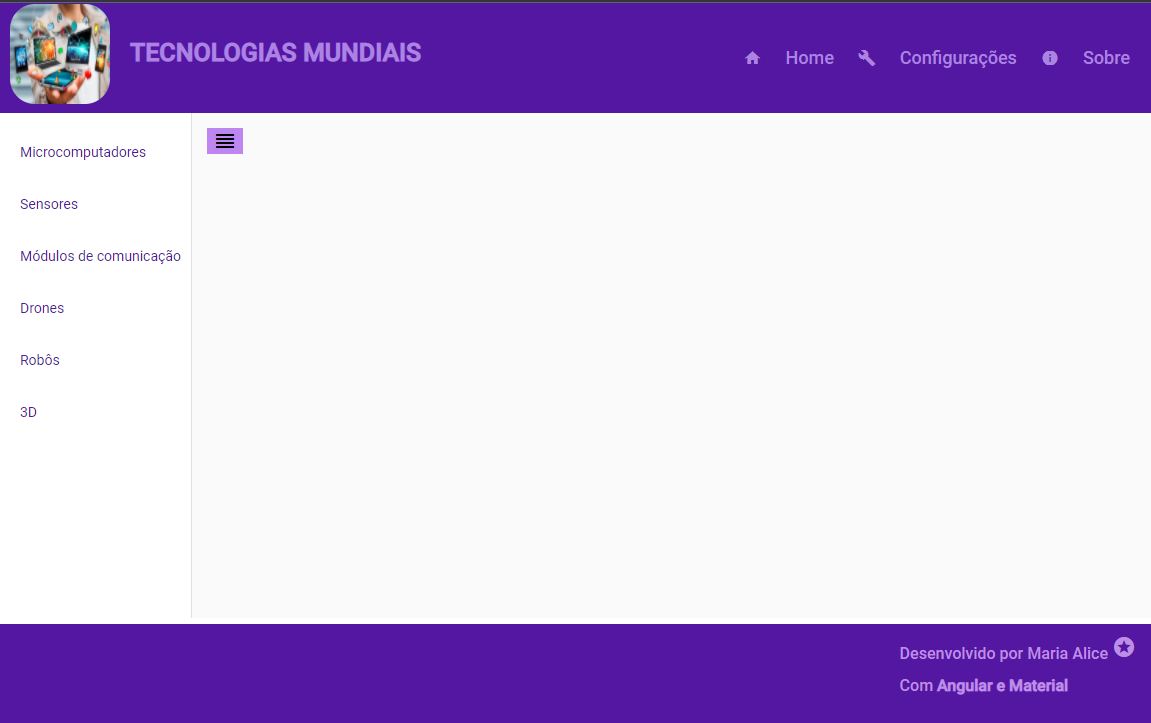
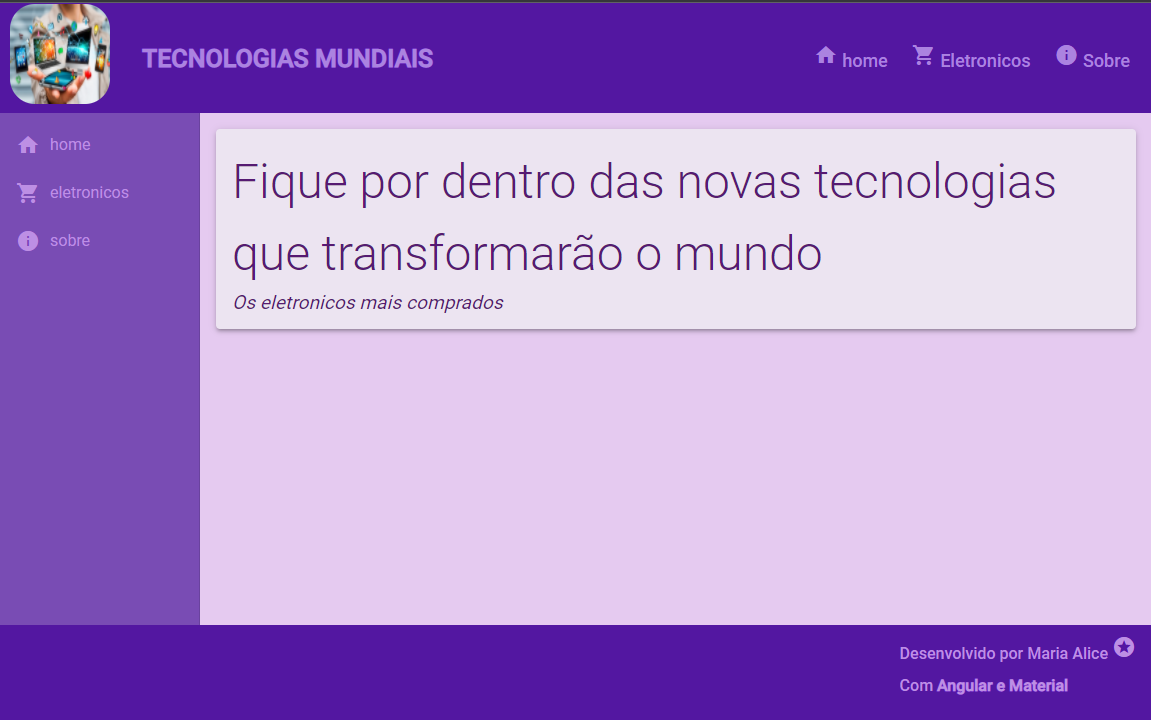
Add files via upload

diff --git a/frontend/src/app/components/template/nav/nav.component.html b/frontend/src/app/components/template/nav/nav.component.html
@@ -1,22 +1,28 @@
-<mat-sidenav-container class="sidenav">
+<mat-sidenav-container class="container">
 
-    <mat-sidenav #variavelLocalSidenav mode="side">
+    <mat-sidenav 
+    class="sidenav"
+    opened
+    fixedOnViewport="true"
+    fixedTopGap="64"
+    mode="side">
     
-      <span>
-          <p>Microcomputadores</p>
-          <p>Sensores</p>
-          <p>Módulos de comunicação</p>
-          <p>Drones</p>
-          <p>Robôs</p>
-          <p>3D</p>
-      </span>
-    
+    <mat-nav-list class="nav-list">
+        <a mat-list-item routerLink="/">
+          <i class="material-icons"> home </i>
+          home
+        </a>
+        <a mat-list-item routerLink="/eletronics">
+          <i class="material-icons"> shopping_cart </i>
+          eletronicos
+        </a>
+        <a mat-list-item routerLink="/about">
+          <i class="material-icons"> info </i>
+          sobre
+        </a>
+    </mat-nav-list>
     </mat-sidenav>
-    
-    <mat-sidenav-content>
-    
-      <button class="material-icons" (click)="variavelLocalSidenav.toggle()"> reorder </button>
-    
+    <mat-sidenav-content class="content">
+      <router-outlet></router-outlet>
     </mat-sidenav-content>
-    
     </mat-sidenav-container>

diff --git a/frontend/src/app/app.module.ts b/frontend/src/app/app.module.ts
@@ -10,13 +10,20 @@ import { FooterComponent } from './components/template/footer/footer.component';
 import { NavComponent } from './components/template/nav/nav.component';
 import {MatSidenavModule} from '@angular/material/sidenav';
 import {MatListModule} from '@angular/material/list';
+import { HomeComponent } from './views/home/home.component';
+import { MatCardModule } from '@angular/material/card';
+import { AboutComponent } from './views/about/about.component';
+import { EletronicsComponent } from './views/eletronics/eletronics.component';
 
 @NgModule({
   declarations: [
     AppComponent,
     HeaderComponent,
     FooterComponent,
-    NavComponent
+    NavComponent,
+    HomeComponent,
+    AboutComponent,
+    EletronicsComponent
   ],
   imports: [
     BrowserModule,
@@ -24,7 +31,8 @@ import {MatListModule} from '@angular/material/list';
     BrowserAnimationsModule,
     MatToolbarModule,
     MatSidenavModule,
-    MatListModule
+    MatListModule,
+    MatCardModule
   ],
   providers: [],
   bootstrap: [AppComponent]

diff --git a/frontend/src/app/components/template/header/header.component.html b/frontend/src/app/components/template/header/header.component.html
@@ -2,15 +2,21 @@
     <span>
             <img class="img" src="assets/img/tec.jpg" alt="tecnologia">
     </span>
-        <p class="logo">TECNOLOGIAS MUNDIAIS</p>
+        <a class="logo" routerLink="/">TECNOLOGIAS MUNDIAIS</a>
         <div class="header-right">
-        <a class="material-icons"> home </a>
-        <a>Home</a> 
+        <a>
+            <i class="material-icons"> home </i>
+            home
+        </a>
 
-        <a class="material-icons"> build </a>
-        <a>Configurações</a> 
+        <a>
+            <i class="material-icons"> shopping_cart </i>
+            Eletronicos
+        </a>
 
-        <a class="material-icons"> info </a>
-        <a>Sobre</a> 
+        <a>
+            <i class="material-icons"> info </i>
+            Sobre
+        </a>
     </div>
 </mat-toolbar>

diff --git a/frontend/src/app/app-routing.module.ts b/frontend/src/app/app-routing.module.ts
@@ -1,7 +1,24 @@
 import { NgModule } from '@angular/core';
 import { RouterModule, Routes } from '@angular/router';
 
-const routes: Routes = [];
+import { HomeComponent } from './views/home/home.component';
+import  { AboutComponent } from './views/about/about.component';
+import  { EletronicsComponent } from './views/eletronics/eletronics.component';
+
+const routes: Routes = [
+  {
+    path: "",
+    component: HomeComponent,
+  },
+  {
+    path: "about",
+    component: AboutComponent,
+  },
+  {
+    path: "eletronics",
+    component: EletronicsComponent,
+  },
+];
 
 @NgModule({
   imports: [RouterModule.forRoot(routes)],

diff --git a/frontend/src/app/components/template/nav/nav.component.css b/frontend/src/app/components/template/nav/nav.component.css
@@ -1,20 +1,21 @@
+.container{
+    height: 71%;
+}
+
 .sidenav{
-    margin-left: 10px;
-    height: 70%;
-    color: rgb(255, 255, 255);
+    width: 200px;
+    background-color: #794cb4;
 }
 
-.material-icons{
-    border: none;
-    margin: 15px;
-    background-color: rgb(189, 134, 240);
+.sidenav a{
+    color: rgb(189, 143, 228);
 }
 
-span{
-    margin: 15px;
+.sidenav i{
+    padding-right: 10px;
 }
 
-p{
-    color: #5317a1;
-    padding: 10px;
+.content{
+    padding: 16px;
+    background-color: rgb(229, 202, 240);
 }

diff --git a/frontend/src/app/views/about/about.component.html b/frontend/src/app/views/about/about.component.html
@@ -1,0 +1,10 @@
+<div class="texto">
+    <p>Aqui voce encontra os eletronicos e acessórios mais atuais no mundo da tecnologia</p>
+    <p>Voce também encontra os melhores preços de mercado, com frete grátis na primeira compra! </p>    
+</div>
+
+<div class="container">
+    <img src="assets/img/img1.jfif" alt="img">
+    <img src="assets/img/img2.jfif" alt="img">
+    <img src="assets/img/img3.jfif" alt="img">
+</div>

diff --git a/frontend/src/app/views/home/home.component.html b/frontend/src/app/views/home/home.component.html
@@ -1,0 +1,8 @@
+<mat-card class="home mat-elevation-z3">
+    <mat-card-title class="title"> 
+        Fique por dentro das novas tecnologias que transformarão o mundo
+    </mat-card-title>
+     <mat-card-subtitle class="subtitle">
+         Os eletronicos mais comprados 
+        </mat-card-subtitle>
+</mat-card>    

diff --git a/frontend/src/app/views/eletronics/eletronics.component.ts b/frontend/src/app/views/eletronics/eletronics.component.ts
@@ -1,0 +1,15 @@
+import { Component, OnInit } from '@angular/core';
+
+@Component({
+  selector: 'app-eletronics',
+  templateUrl: './eletronics.component.html',
+  styleUrls: ['./eletronics.component.css']
+})
+export class EletronicsComponent implements OnInit {
+
+  constructor() { }
+
+  ngOnInit(): void {
+  }
+
+}

diff --git a/frontend/src/app/views/about/about.component.ts b/frontend/src/app/views/about/about.component.ts
@@ -1,0 +1,15 @@
+import { Component, OnInit } from '@angular/core';
+
+@Component({
+  selector: 'app-about',
+  templateUrl: './about.component.html',
+  styleUrls: ['./about.component.css']
+})
+export class AboutComponent implements OnInit {
+
+  constructor() { }
+
+  ngOnInit(): void {
+  }
+
+}

diff --git a/frontend/src/app/views/home/home.component.ts b/frontend/src/app/views/home/home.component.ts
@@ -1,0 +1,15 @@
+import { Component, OnInit } from '@angular/core';
+
+@Component({
+  selector: 'app-home',
+  templateUrl: './home.component.html',
+  styleUrls: ['./home.component.css']
+})
+export class HomeComponent implements OnInit {
+
+  constructor() { }
+
+  ngOnInit(): void {
+  }
+
+}

diff --git a/frontend/src/app/views/home/home.component.css b/frontend/src/app/views/home/home.component.css
@@ -1,0 +1,16 @@
+.home{
+    background-color: rgb(236, 228, 241);
+}
+
+.home .title{
+    font-size: 3rem;
+    font-weight: 230;
+    line-height: 1.5;   
+    color: rgb(86, 26, 114);
+}
+
+.subtitle{
+    color: rgb(86, 26, 114);
+    font-size: 1.2rem;
+    font-style: italic;
+}

diff --git a/frontend/src/app/views/about/about.component.css b/frontend/src/app/views/about/about.component.css
@@ -1,0 +1,10 @@
+.texto{
+   text-align: center;
+   color: rgb(85, 22, 110);
+   font-size: 1.3rem;
+   line-height: 2;
+}
+
+img{
+    padding:15px
+}
